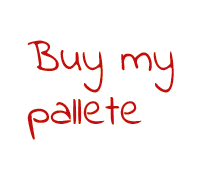
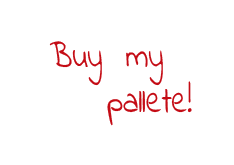
added different text to show

Changed region(s): [[0.1137, 0.2121, 0.8246, 0.8182]]

diff --git a/Door_game/js/script.js b/Door_game/js/script.js
@@ -217,11 +217,6 @@ let doorsOpeningArr = Array.prototype.slice.call(doorsOpening);
 
 // function to assign images
 
-
-// let imgSrc1 = 
-// let imgSrc2 = 
-// let imgSrc3 = 
-
 let inf1 = "./images/images/in_1.png";
 let inf2 = "./images/images/in_2.png";
 
@@ -233,6 +228,7 @@ function selectAll(h) {
 }
 
 let goodImg = ["./images/images/bunny_1.png", "./images/images/bunny_2.png", "./images/images/puppy_1.png"];
+let messageSrcArr = ["./images/images/message_1.png", "./images/images/message_2.png", "./images/images/message_3.png", "./images/images/message_4.png"]
 let looseImg = [inf1, inf2];
 
 
@@ -346,6 +342,7 @@ function doorsOpeningFunction(arrDoor, doorConvertedArray) {
 
         if (looseImg.includes(i[a].getAttribute('src'))) {
 
+          messageInf[a].src = messageSrcArr[randomNumberGenerator(messageSrcArr)];
 
 
           messageInf[a].classList.remove("d-none");
@@ -384,6 +381,8 @@ function doorsOpeningFunction(arrDoor, doorConvertedArray) {
         if (looseImg.includes(i[a].getAttribute('src'))) {
 
           i[a].classList.add("inf")
+
+          messageInf[a].src = messageSrcArr[randomNumberGenerator(messageSrcArr)];
 
           messageInf[a].classList.remove("d-none");
 
@@ -439,6 +438,7 @@ function doorsOpeningFunction(arrDoor, doorConvertedArray) {
 
 
           i[a].classList.add("inf")
+          messageInf[a].src = messageSrcArr[randomNumberGenerator(messageSrcArr)];
 
           messageInf[a].classList.remove("d-none");
 

diff --git a/Door_game/index.html b/Door_game/index.html
@@ -171,14 +171,15 @@ grid-flex-column ">
         <div class="entrance ">
           <img class="doors frame-w " src="./images/images/door-frame_v_3_1.png" alt="" />
           <img class="imgBehidDoors  " alt="" />
-          <img class="door-w  z-8 message p-absolute d-none" alt="" src="./images/images/message_1.png" />
+          <img class="door-w  z-8 message p-absolute d-none" alt="" src="" />
+
           <img class="open doors door-w " src="./images/images/door_2_1.png" alt="" />
-          <!-- <img class="doors door-w inf " src="./images/images/message_1.png" alt=""> -->
         </div>
         <div class="entrance">
           <img class="doors frame-w " src="./images/images/door-frame_v_3_1.png" alt="" />
           <img class=" imgBehidDoors   " alt="" />
-          <img class="door-w  z-8 message p-absolute d-none" alt="" src="./images/images/message_1.png" />
+          <img class="door-w  z-8 message p-absolute d-none" alt="" src="" />
+
           <img class="open doors door-w " src="./images/images/door_2_1.png" alt="" />
         </div>
       </div>
